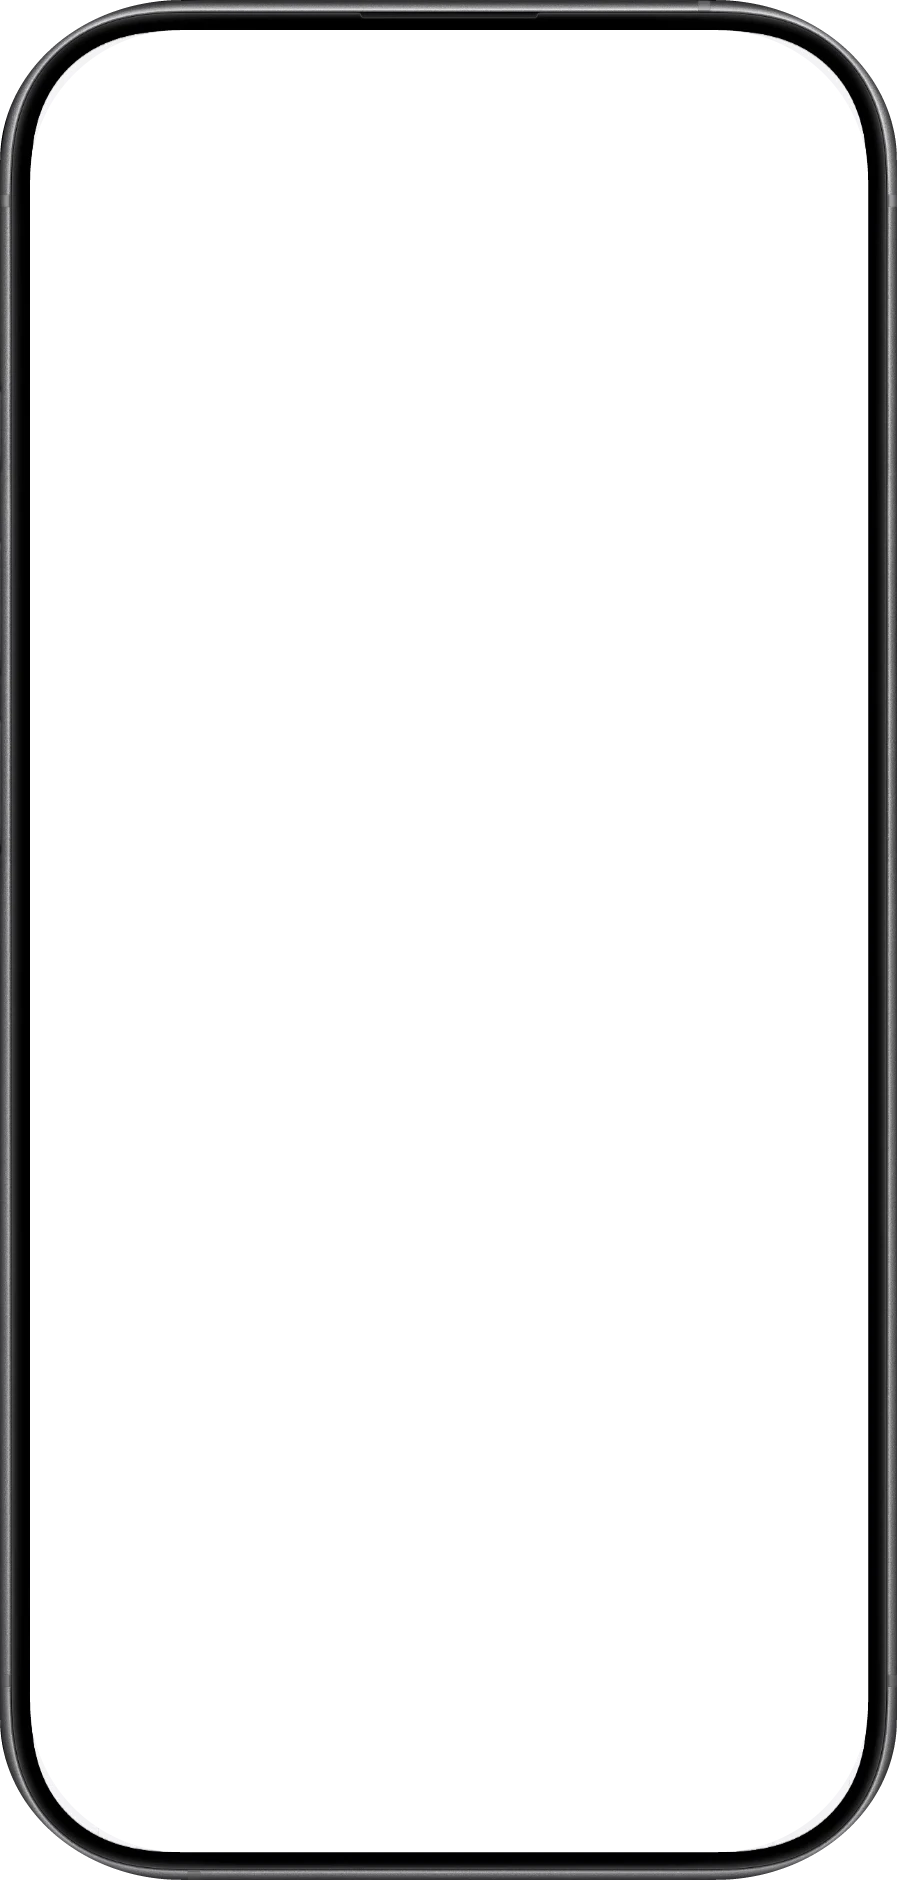
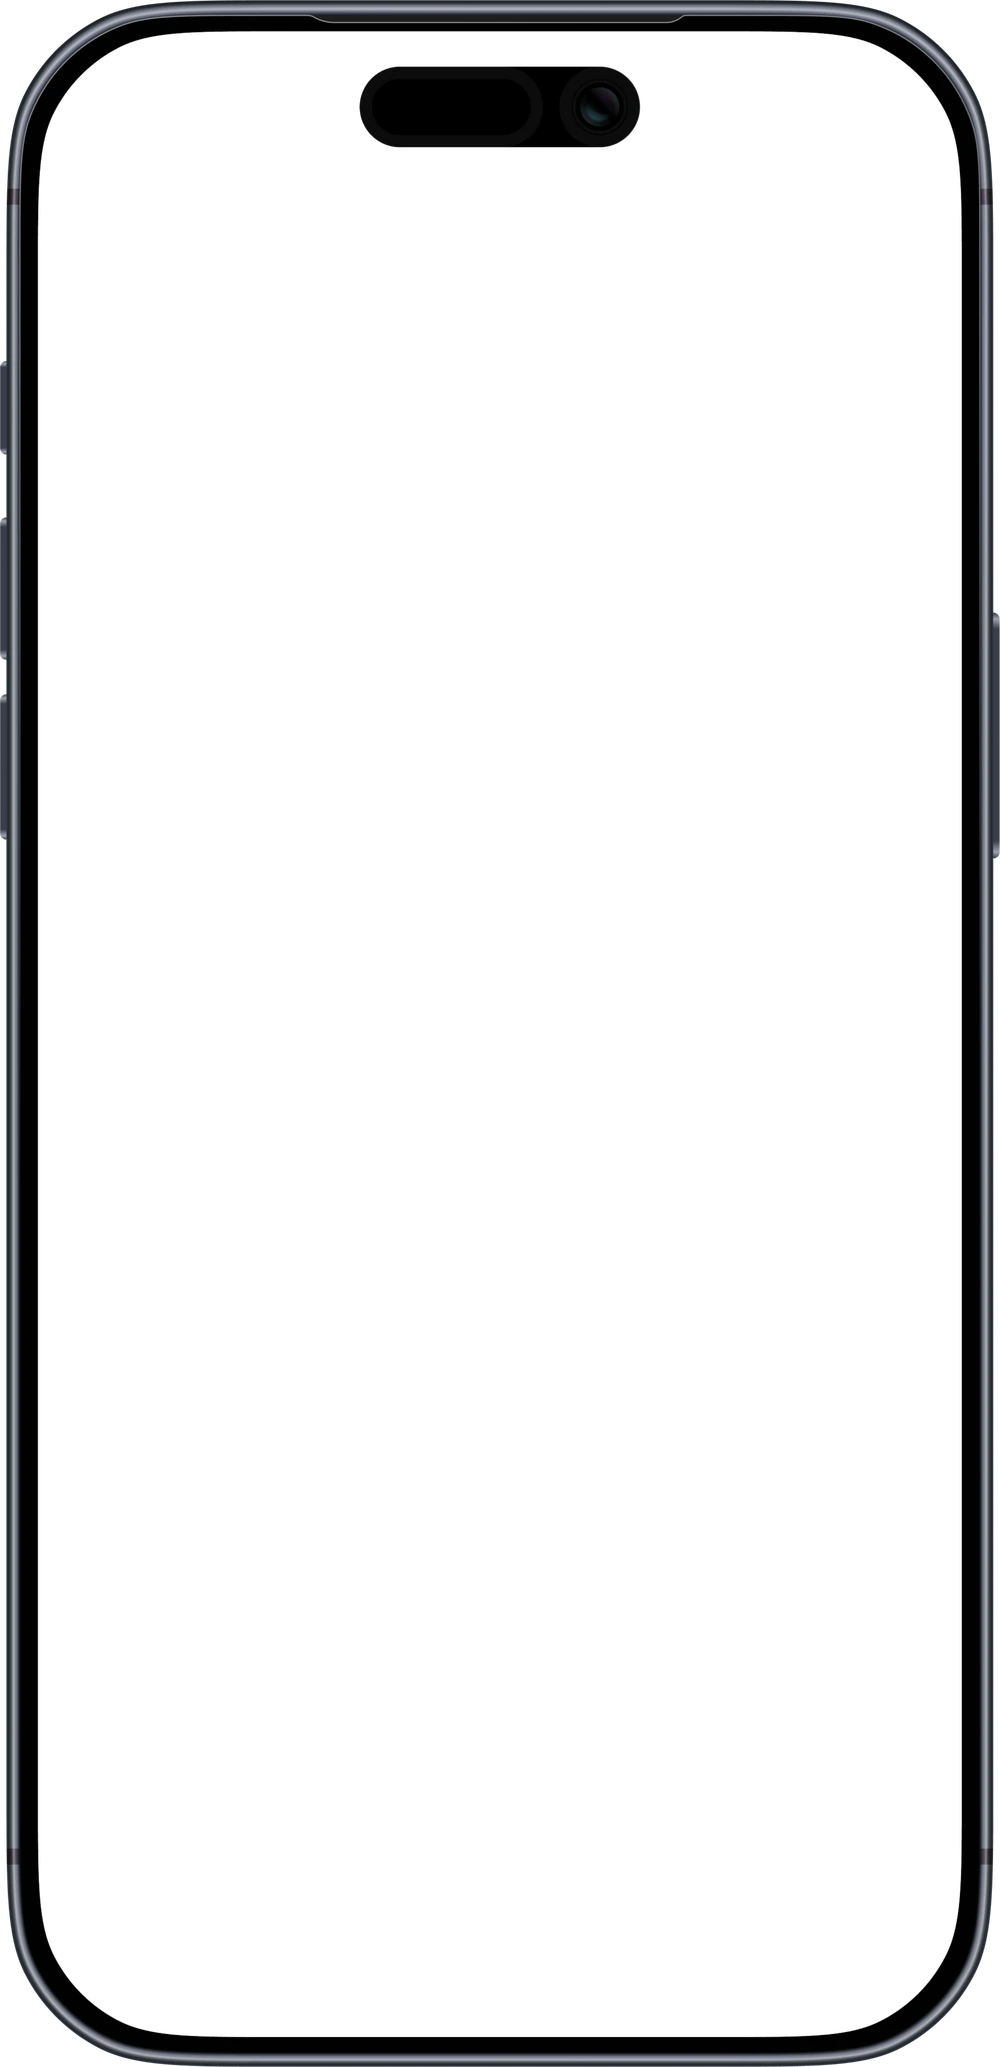
Swap Flight Matrix frame for a real device-photo asset with buttons
Replaces the hand-built bezel mask (cropped from a video frame) with
a proper device-frame photo that has genuine alpha and shows the
physical side buttons, matching real iPhone geometry more precisely
than anything derivable from the recording itself.

Also fixes a positioning bug: the video's screen content was mapped
to the wrapper's (0,0) origin instead of the frame image's actual
hole position (HOLE_L, HOLE_T), shifting it ~4% off and splitting the
dynamic island/camera into two visibly disconnected shapes.

Changed region(s): [[0.0, 0.0, 1.0, 1.0]]

diff --git a/components/sections/FlightMatrixDemo.tsx b/components/sections/FlightMatrixDemo.tsx
@@ -10,56 +10,62 @@ interface VideoPair {
 }
 
 /**
- * The source recordings have no alpha channel (confirmed by inspecting
- * the raw decoded pixels) and their outer edge is a soft anti-aliased
- * gradient, not a crisp line — there's no pixel position where a CSS
- * crop lands cleanly against the page's white background. An earlier
- * version cropped to the silhouette with CSS border-radius, which got
- * the shape close but always left a faint gray sliver of that gradient
- * showing against white.
+ * The source recordings have no alpha channel and their own baked-in
+ * bezel has a soft anti-aliased outer edge — no CSS crop of the raw
+ * footage ever lands cleanly against the page's white background (an
+ * earlier version tried; always left a faint gray sliver).
  *
- * Instead, /public/images/flight-matrix-frame.webp is a real bezel
- * image with genuine alpha — transparent outside the phone, opaque
- * bezel ring, and a transparent hole where the screen goes — built by
- * masking a captured frame with a precisely fit rounded-rect (ellipse
- * corners, not circular: measuring all four corners showed the
- * horizontal radius, ~181px native, is consistently larger than the
- * vertical, ~160px). It's laid over the video so only the screen
- * content shows through; the frame's own crisp, anti-aliased alpha
- * defines the visible corner, not a runtime CSS approximation of the
- * footage's fuzzy edge. Same frame image works for both light and
- * dark clips — it's the same physical device in both recordings.
+ * /public/images/flight-matrix-frame.webp sidesteps that: it's a real
+ * device-frame photo with genuine alpha (transparent outside the
+ * phone, opaque bezel + buttons, transparent hole where the screen
+ * goes), laid over the video. The video itself is cropped down to
+ * JUST its screen content (SCREEN_* — no bezel, no background) and
+ * scaled to exactly fill the frame image's hole, so there's no
+ * dependency on the video's own bezel lining up with the frame's ring
+ * — the video never shows any bezel of its own for the frame to hide.
+ * Same frame image works for both light and dark clips since it's a
+ * generic device photo, not tied to either recording.
  *
- * NATIVE_W/H is the recorded frame size; CROP_* is the outer bounding
- * box the frame image was built from, used to position the video
- * beneath it at matching scale (percentages, not px, so it holds at
- * any of the carousel's responsive display widths).
+ * NATIVE_W/H is the recorded frame size. SCREEN_* is the video's own
+ * screen-content bounding box (measured from decoded frame pixels).
+ * CANVAS_* and HOLE_* describe the frame image's own geometry
+ * (measured the same way, via its alpha channel). scaleX/Y map screen
+ * pixels to hole pixels; percentages (not px) so it holds at any of
+ * the carousel's responsive display widths.
  */
 const NATIVE_W = 938;
 const NATIVE_H = 1920;
-const CROP_L = 20;
-const CROP_T = 19;
-const CROP_R = 917;
-const CROP_B = 1899;
-const CROP_W = CROP_R - CROP_L;
-const CROP_H = CROP_B - CROP_T;
+const SCREEN_L = 50;
+const SCREEN_T = 49;
+const SCREEN_R = 888;
+const SCREEN_B = 1871;
+
+const CANVAS_W = 2886;
+const CANVAS_H = 5965;
+const HOLE_L = 111;
+const HOLE_T = 92;
+const HOLE_R = 2773;
+const HOLE_B = 5876;
+
+const scaleX = (HOLE_R - HOLE_L) / (SCREEN_R - SCREEN_L);
+const scaleY = (HOLE_B - HOLE_T) / (SCREEN_B - SCREEN_T);
 
 const cropWrapperStyle = {
-  aspectRatio: `${CROP_W} / ${CROP_H}`,
+  aspectRatio: `${CANVAS_W} / ${CANVAS_H}`,
 };
 
 const cropVideoStyle = {
-  width: `${(NATIVE_W / CROP_W) * 100}%`,
-  height: `${(NATIVE_H / CROP_H) * 100}%`,
-  left: `${-(CROP_L / CROP_W) * 100}%`,
-  top: `${-(CROP_T / CROP_H) * 100}%`,
+  width: `${((NATIVE_W * scaleX) / CANVAS_W) * 100}%`,
+  height: `${((NATIVE_H * scaleY) / CANVAS_H) * 100}%`,
+  left: `${((HOLE_L - SCREEN_L * scaleX) / CANVAS_W) * 100}%`,
+  top: `${((HOLE_T - SCREEN_T * scaleY) / CANVAS_H) * 100}%`,
 };
 
 /**
  * Full-phone swipeable video demo — one short auto-playing clip per
- * step (bezel baked into the footage, matching every other mockup on
- * the site), native horizontal scroll-snap for touch swipe, dots +
- * arrow buttons for discoverability on non-touch devices.
+ * step (screen content only; the device frame is a separate overlay
+ * image, see above), native horizontal scroll-snap for touch swipe,
+ * dots + arrow buttons for discoverability on non-touch devices.
  *
  * Each step is actually a light/dark PAIR of videos, absolutely
  * stacked and both playing in lockstep — CSS (.theme-video-light/dark